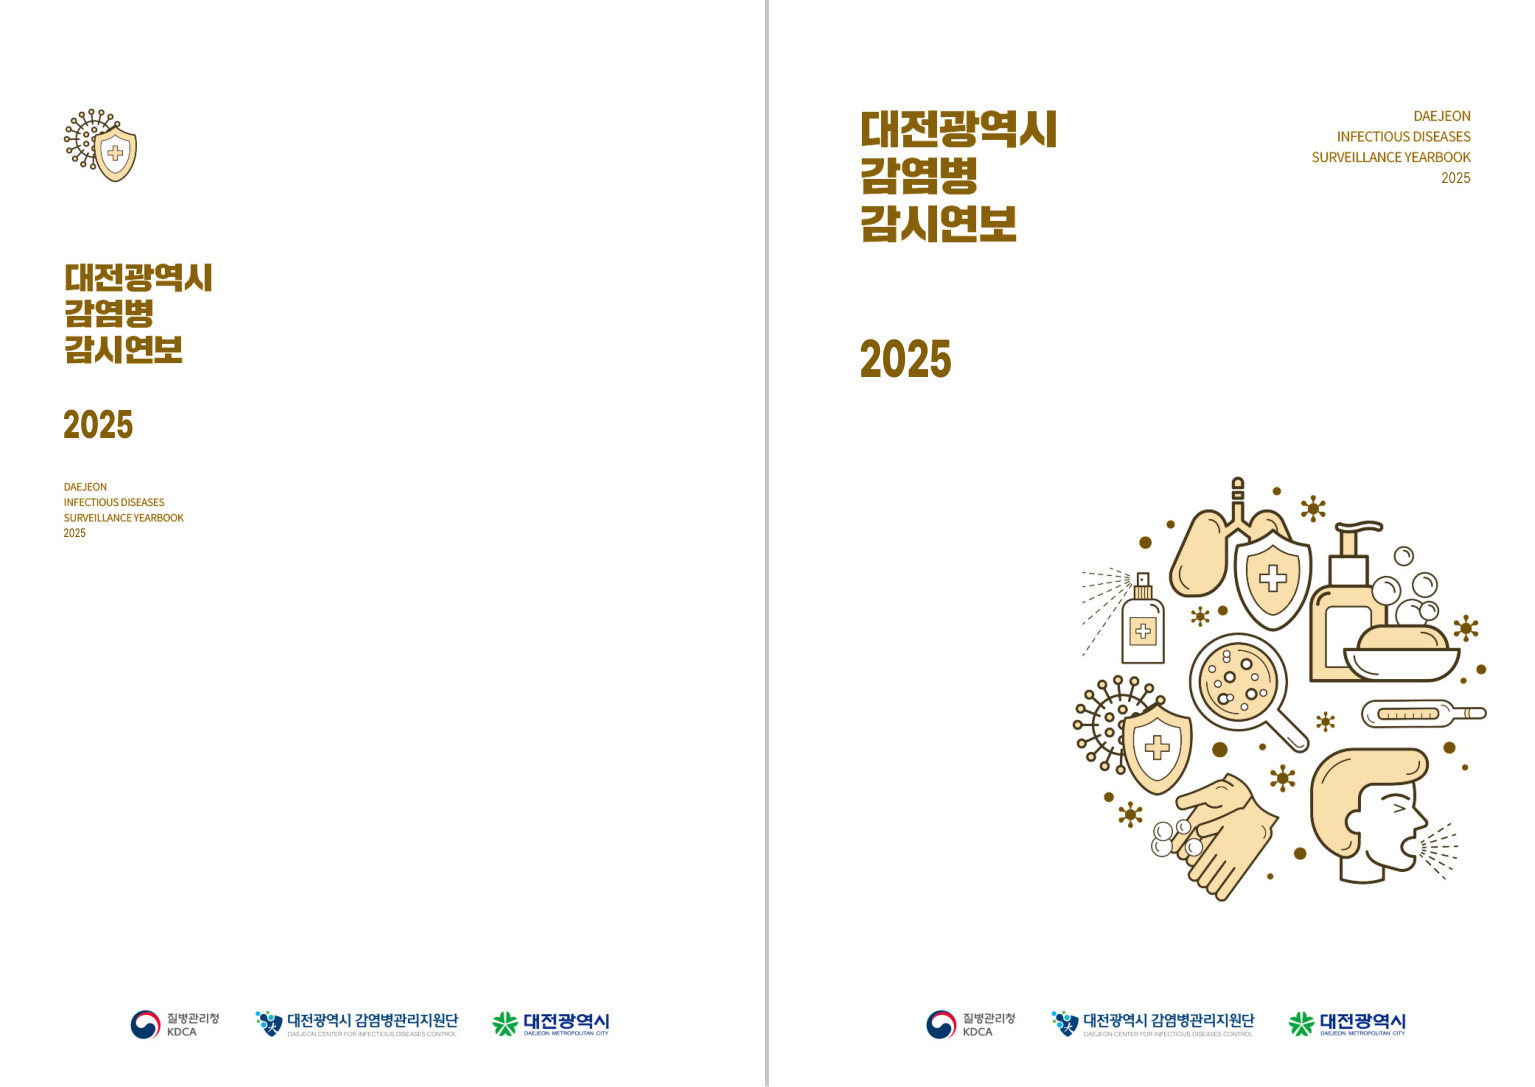
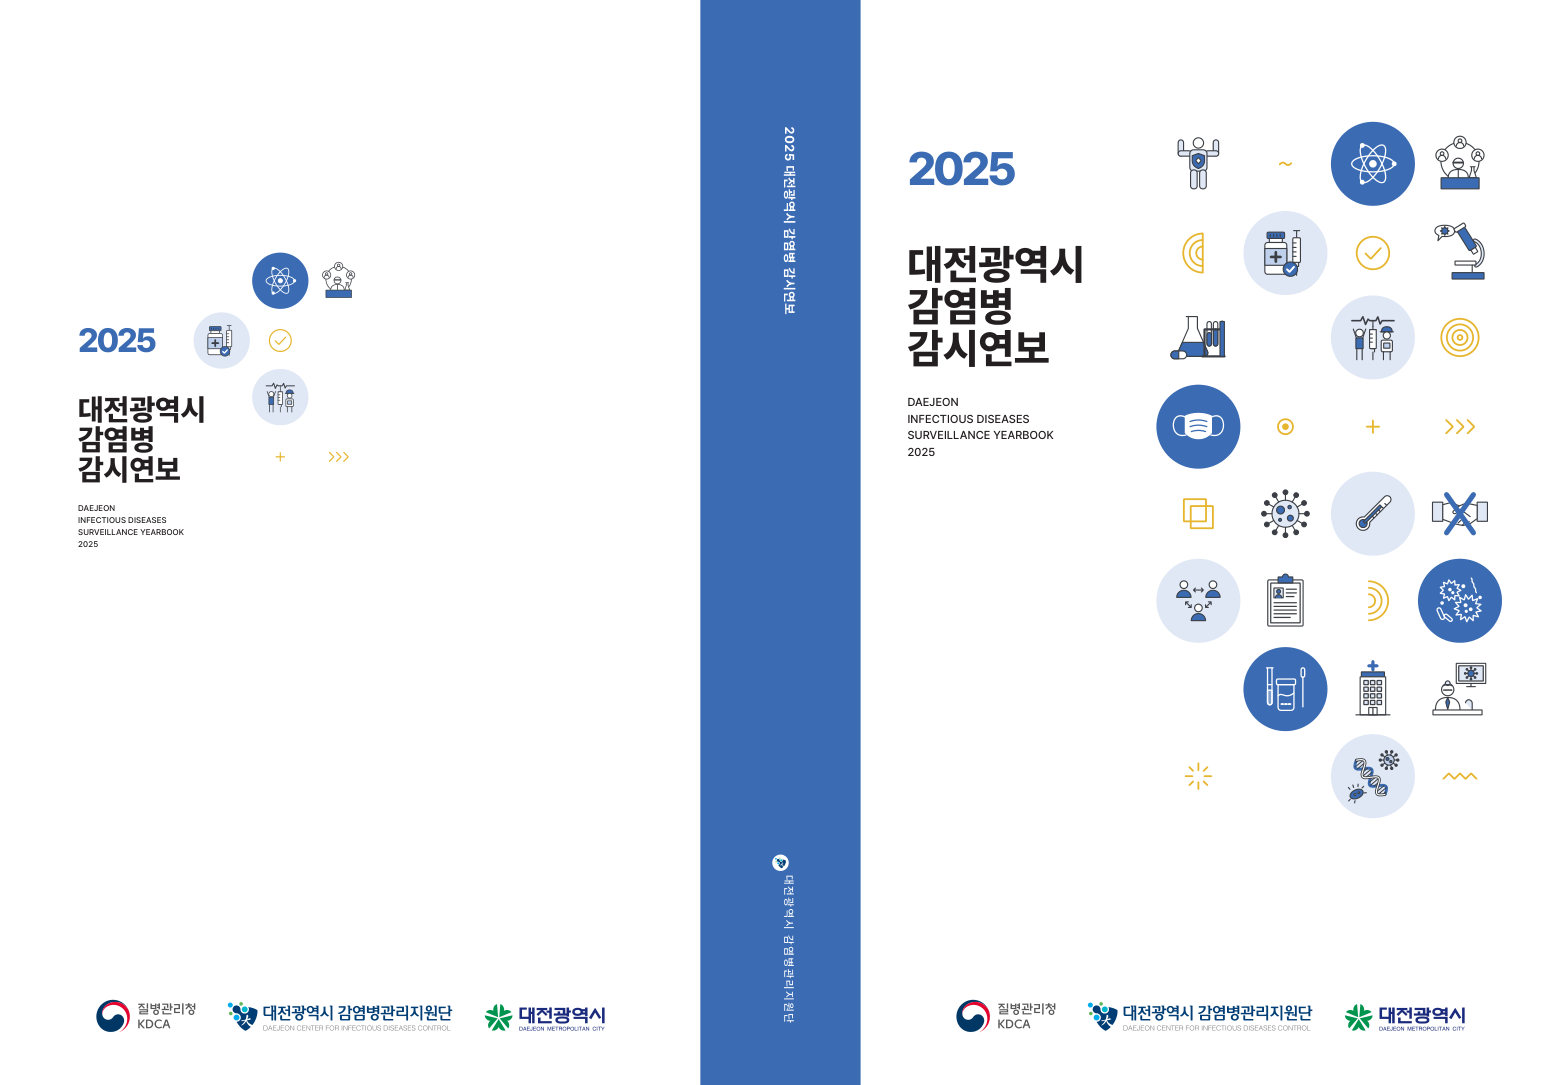
수정안 감시연보: 2023 표지 디자인 + 파랑·노랑 색, 일러스트 다시 그림
- 감시 표지를 2023 감시연보 디자인(색 띠·아이콘 원 격자·책등·뒤표지)으로, 강조 파랑 #3A6CB3·보조 노랑 #E8B730
- 표지 일러스트 18개를 2023 실물에서 의미를 판독해 다시 그림
- 감시 내지 샘플도 파랑·노랑으로

diff --git a/index.html b/index.html
@@ -198,11 +198,11 @@ const REV = {
   name: "수정안",
   colors: [
     ["결핵 주색 바이올렛", "#6A3FB5"], ["결핵 보조 머스타드", "#E0A526"],
-    ["감시 주색 골드 앰버", "#D99208"], ["감시 강조 차콜", "#3F3B38"]
+    ["감시 주색 파랑", "#3A6CB3"], ["감시 보조 노랑", "#E8B730"]
   ],
   scenes: {
     tb: [["cover", "표지 펼침면"], ["sum", "요약 펼침"], ["toc", "목차 펼침"], ["div", "간지 펼침"], ["body", "본문 샘플"]],
-    gs: [["cover", "표지 (뒤표지 · 앞표지)"], ["toc", "목차 펼침"], ["div", "간지 펼침"], ["body", "본문 샘플"]]
+    gs: [["cover", "표지 펼침면"], ["toc", "목차 펼침"], ["div", "간지 펼침"], ["body", "본문 샘플"]]
   }
 };
 const BOOK = {
@@ -318,7 +318,7 @@ function revPage() {
             <span class="h">주색</span>
             <span class="sw"><i style="background:${REV.colors[0][1]}"></i><span class="mono">${REV.colors[0][1]}</span></span>
             <span class="sw"><i style="background:${REV.colors[2][1]}"></i><span class="mono">${REV.colors[2][1]}</span></span>
-            <span class="h">보조·강조</span>
+            <span class="h">보조</span>
             <span class="sw"><i style="background:${REV.colors[1][1]}"></i><span class="mono">${REV.colors[1][1]}</span></span>
             <span class="sw"><i style="background:${REV.colors[3][1]}"></i><span class="mono">${REV.colors[3][1]}</span></span>
           </div>
